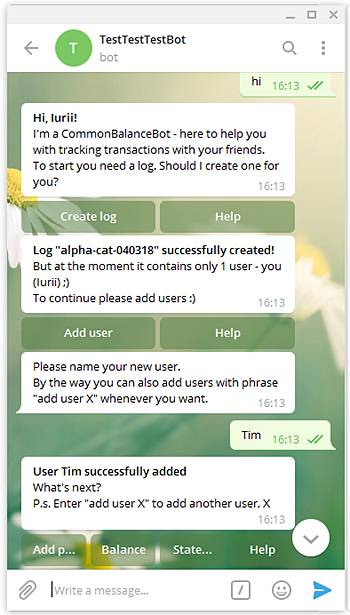
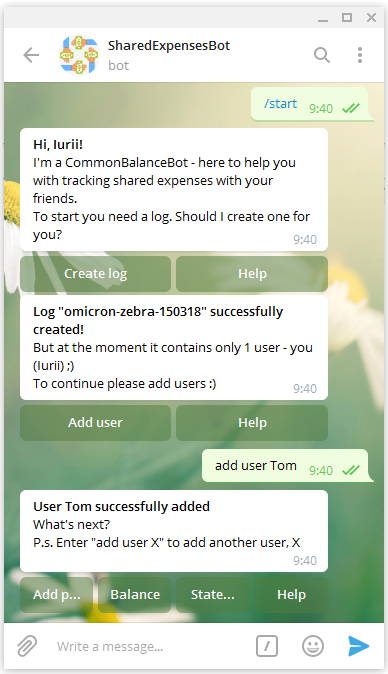
Add images for SEB, update description for SEB

diff --git a/index.html b/index.html
@@ -58,21 +58,18 @@
                 <strong><br>March 2018 - now: <a href="https://github.com/IuriiD/shared_expenses_bot">'SharedExpensesBot'</a></strong> <a href="http://t.me/SharedExpensesBot" class="btn btn-success btn-sm" target="_blank">Telegram</a>
                 <br>
                 The idea for this training miniproject was suggested by my <a href="https://www.facebook.com/viktor.dziuban">brother</a> who said that it would be nice to have a chatbot that could help to track shared expenses during travels with friends.
-                For example, when one pays for apartment, someone else for dinner, the 3rd one for gas, another food/drinks/tickets etc (as an alternative to chipping in with equal sums each time). At first site this seemed to be a not very difficult task but
-                with all "supportive" functions like creating/deleting transactions log(-s), adding/removing users etc in addition to adding/modifying/deleting payments and showing balance/statement it turned to be not so straightforward for me ;)
-                If in my previous miniproject <a href="https://github.com/IuriiD/plotbot">PlotBot</a> work was ~50% in Dialogflow console and 50% writing plain code, in CommonBalanceBot coding in Python accounts for at least 75% of work.
-                Data is saved in MongoDB.
+                For example, when one pays for apartment, someone else for dinner, the 3rd one for gas, another food/drinks/tickets etc (as an alternative to chipping in with equal sums each time). More detailed information - see <a href="https://github.com/IuriiD/shared_expenses_bot" target="_blank">github</a>.
                 <br>
                 Topics learnt/covered in this project: <i>plain python, MongoDB, dialogflow and telegram/facebook integrations</i>.
                 <div class="row">
                     <div class="col">
-                      <a href="img/cbb-1.jpg" target="_blank"><img src="img/cbb-1.jpg" class="img-fluid img-thumbnail" style="max-width: 350px"></a>
-                    </div>
-                    <div class="col">
                       <a href="img/cbb-2.jpg" target="_blank"><img src="img/cbb-2.jpg" class="img-fluid img-thumbnail" style="max-width: 350px"></a>
                     </div>
                     <div class="col">
-                        <a href="img/cbb-3.jpg" target="_blank"><img src="img/cbb-3.jpg" class="img-fluid img-thumbnail" style="max-width: 350px"></a>
+                      <a href="img/cbb-3.jpg" target="_blank"><img src="img/cbb-3.jpg" class="img-fluid img-thumbnail" style="max-width: 350px"></a>
+                    </div>
+                    <div class="col">
+                        <a href="img/cbb-4.jpg" target="_blank"><img src="img/cbb-4.jpg" class="img-fluid img-thumbnail" style="max-width: 350px"></a>
                     </div>
                 </div>
             </p>
@@ -84,7 +81,7 @@
                 <br>
                 Learning to build chatbots on <a href="https://dialogflow.com/">dialogflow.com</a> platform I decided to create a PlotBot - a chatbot which builds charts (using <a href="http://pygal.org/en/stable/index.html">pygal</a> python library for charting).
 
-                Entities, intents, contexts, webhooks, integrations and all that. Test this chatbot in <a href="http://t.me/MakeMyChartBot" target="_blank">Telegram</a>, <a href="https://www.facebook.com/messages/t/ChartingBot" target="_blank">Facebook Messenger</a> (waiting for approval) or in a web demo bottom right (click <a href="https://bot.dialogflow.com/plotbot" target="_blank">here</a> to open a bigger window. P.s. Web demo allows text-only communication).
+                Try this chatbot in <a href="http://t.me/MakeMyChartBot" target="_blank">Telegram</a>, <a href="https://www.facebook.com/messages/t/ChartingBot" target="_blank">Facebook Messenger</a> (waiting for approval) or in a web demo bottom right (click <a href="https://bot.dialogflow.com/plotbot" target="_blank">here</a> to open a bigger window). See more detailed information about this chatbot on <a href="https://github.com/IuriiD/plotbot" target="_blank">github</a>.
                 <br>
                 Topics learnt/covered in this project: <i>dialogflow, Heroku, pygal, dialogflow and telegram/facebook integration</i>.
                 <div class="row">
